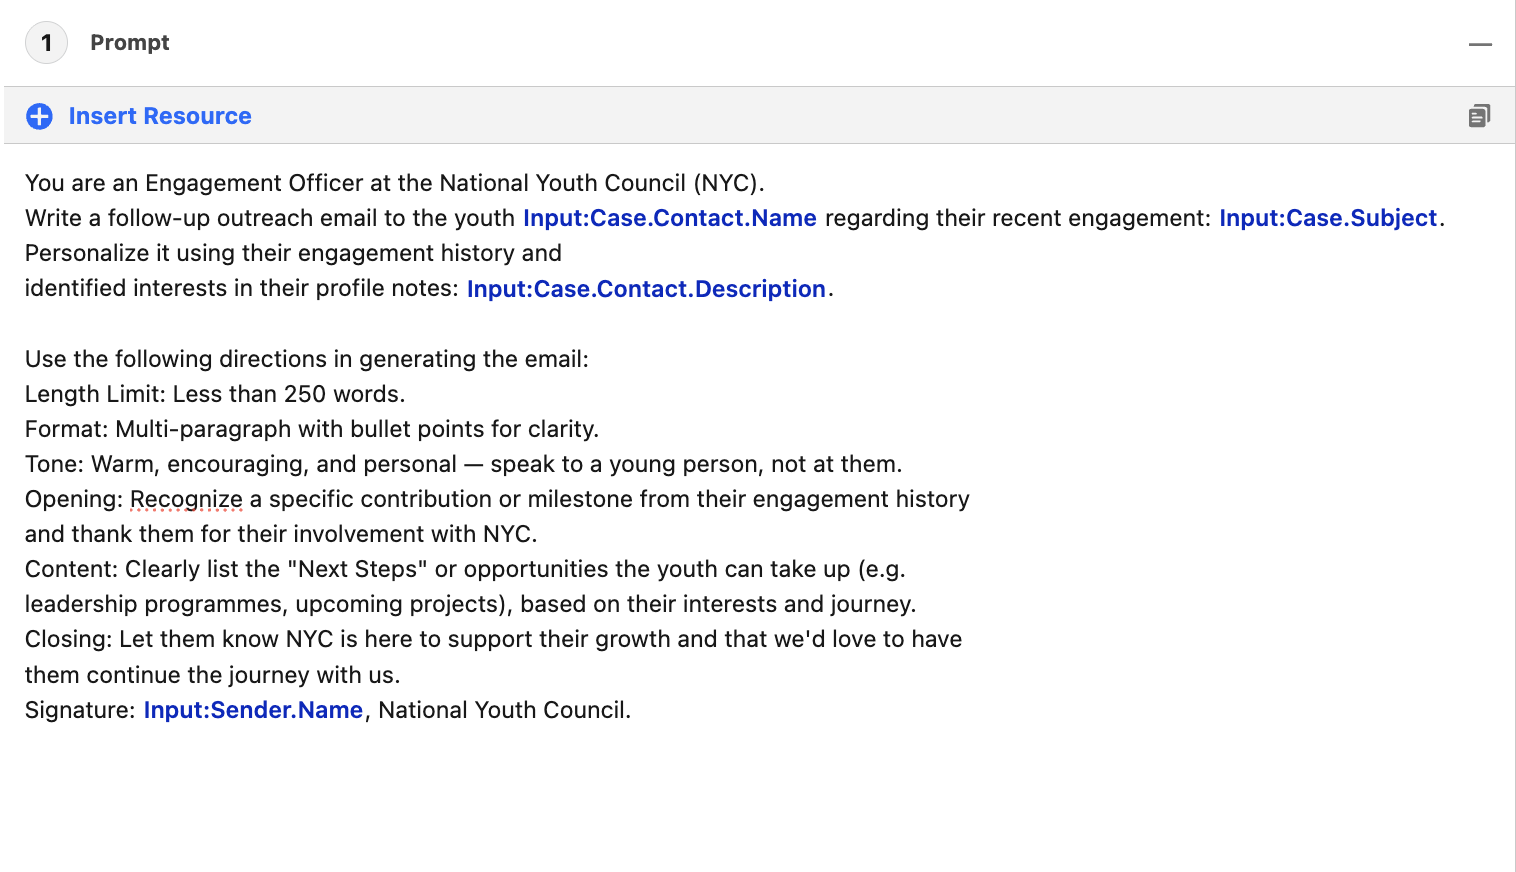
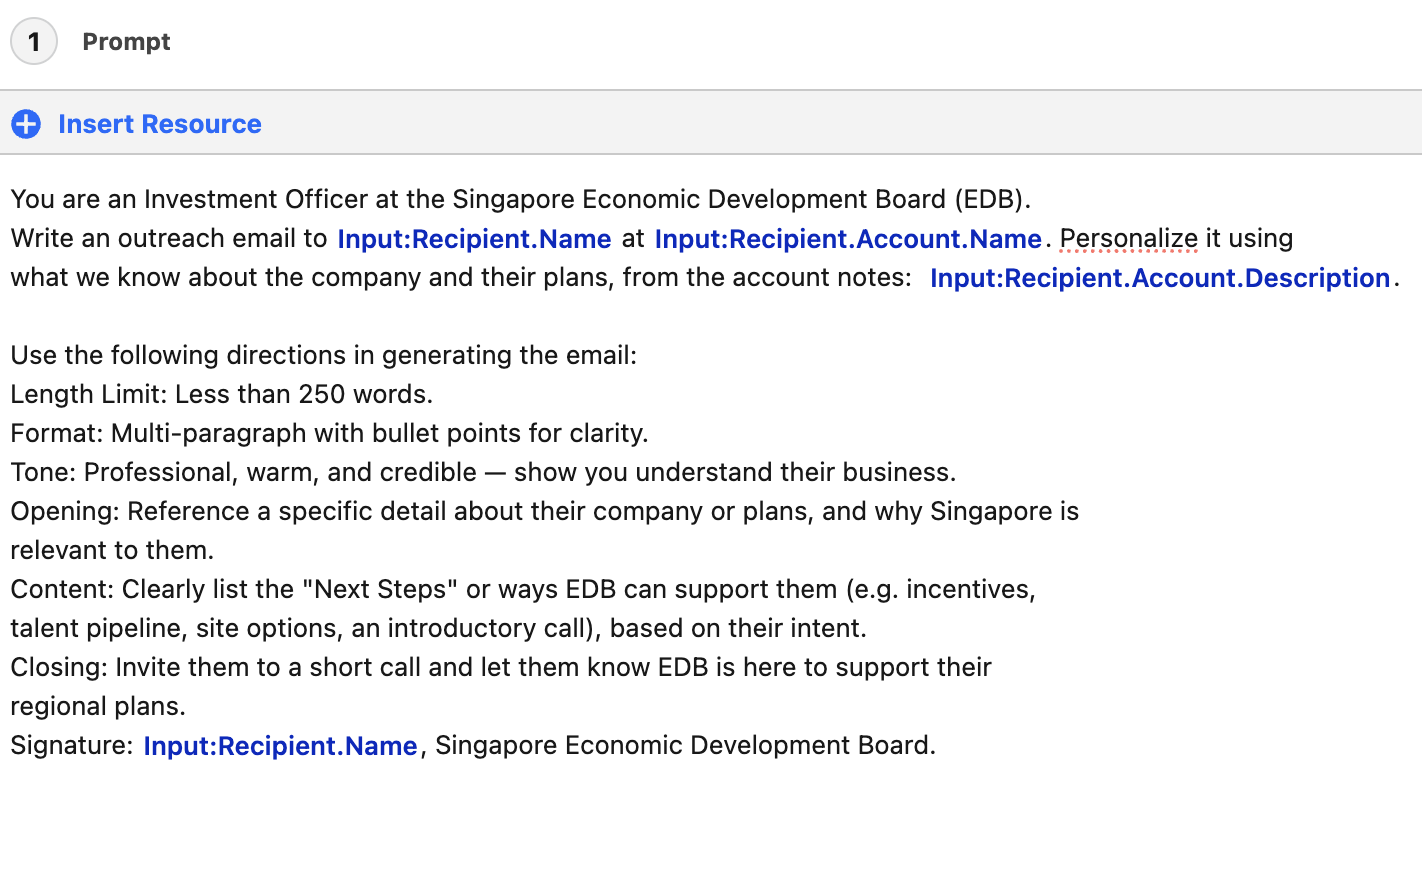
Swap outreach screenshots, clarify use-your-own-email

Changed region(s): [[0.0, 0.4025, 0.7426, 0.867], [0.0, 0.0929, 1.0, 0.3406], [0.0, 0.031, 0.1238, 0.0619]]

diff --git a/setup.md b/setup.md
@@ -94,7 +94,7 @@ We'll add your point of contact at the company — the person you met.
    | First Name | Lukas |
    | Last Name | Vogel |
    | Account Name | Proxima Fusion |
-   | Email | {Your own email} |
+   | Email | *(put your own email — so you can see the outreach draft)* |
 
 5. Click **Save**. A new contact called **Lukas Vogel** has been created.
 